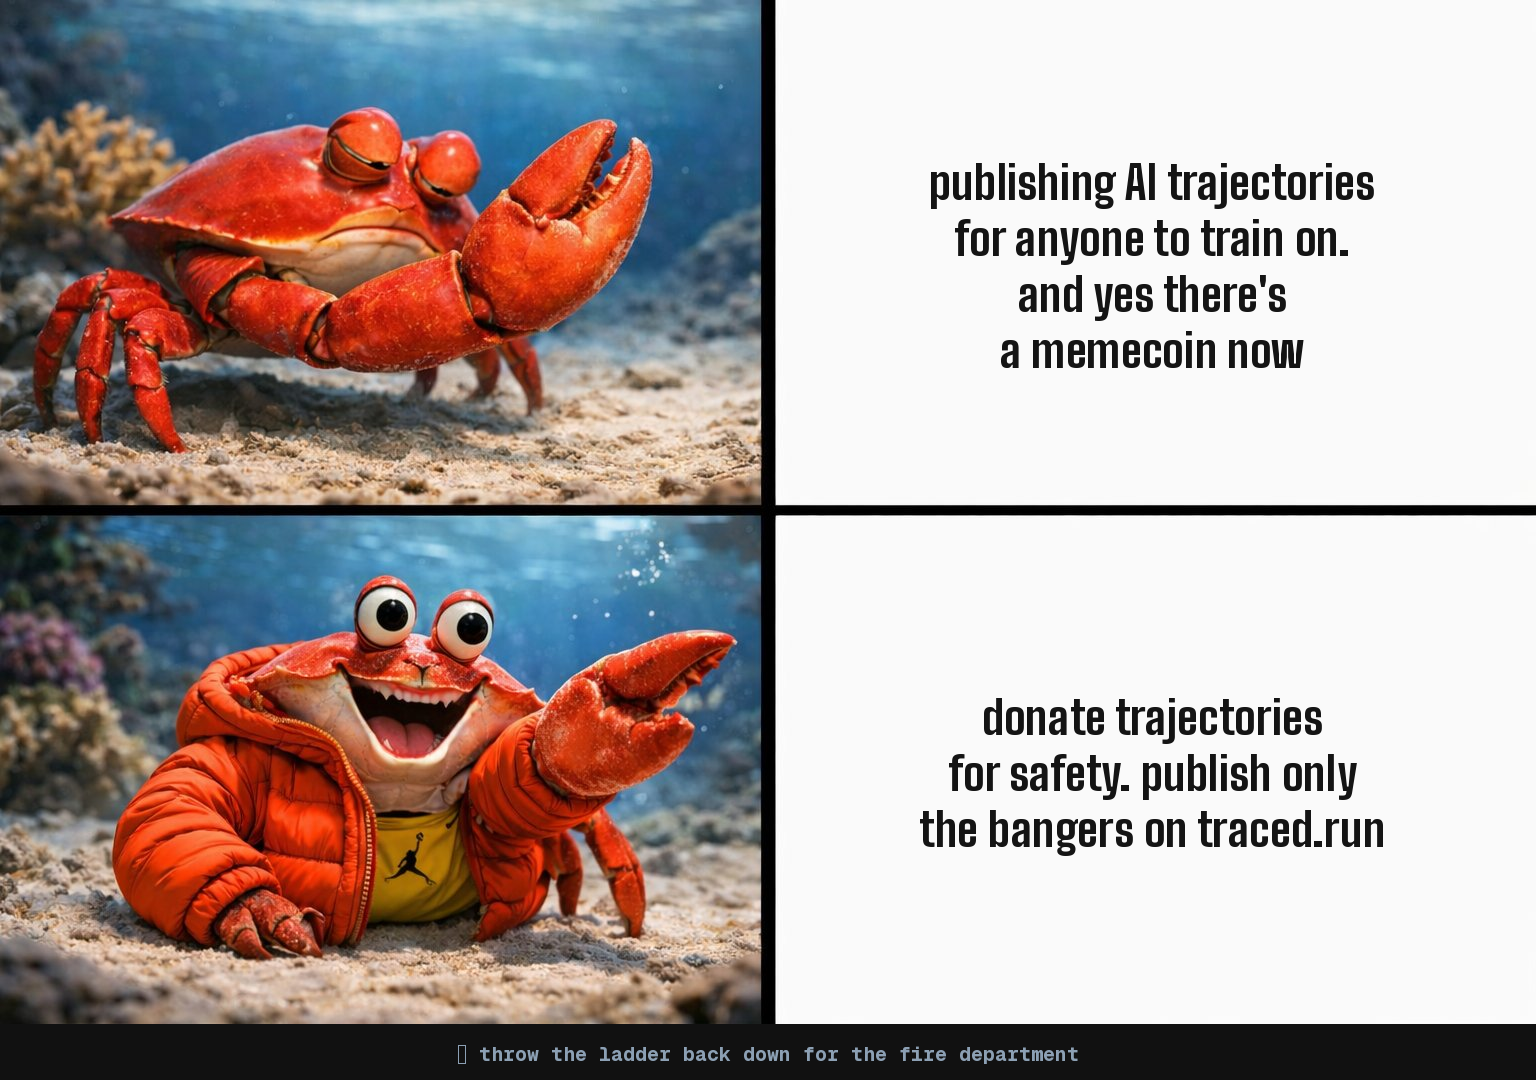
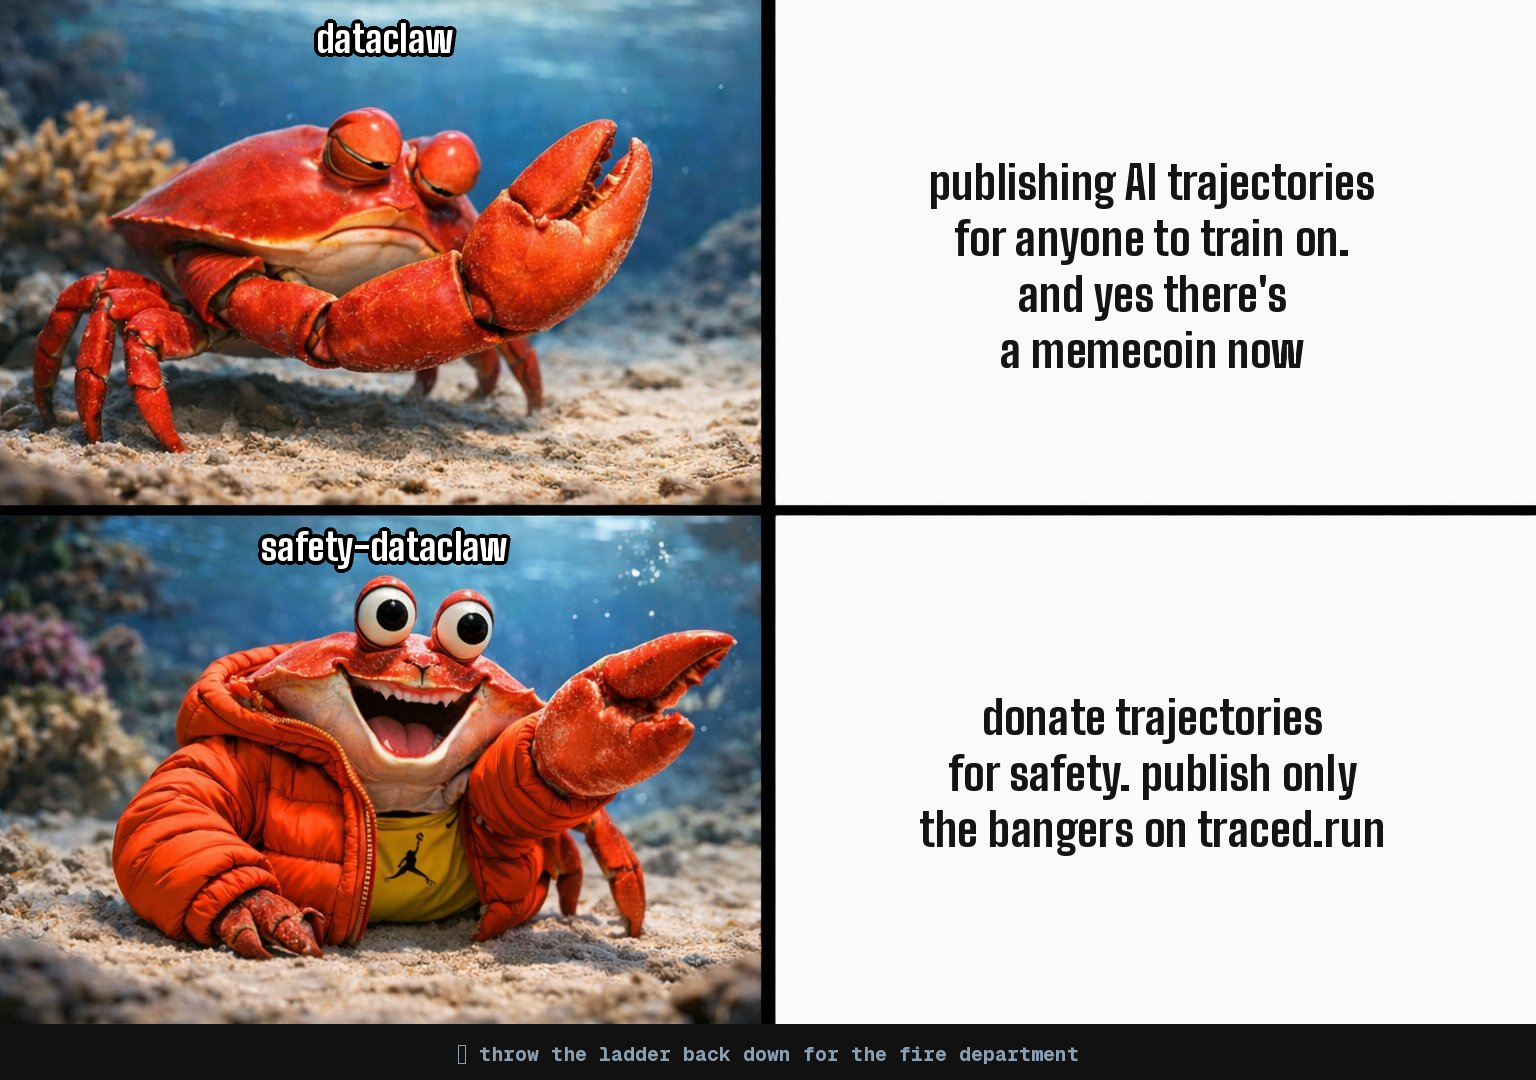
fix: allow HTTP for localhost in TracedClient, update meme

Changed region(s): [[0.1562, 0.4889, 0.3438, 0.55], [0.1875, 0.0, 0.3125, 0.0611]]

diff --git a/safety_dataclaw/traced_api.py b/safety_dataclaw/traced_api.py
@@ -23,7 +23,8 @@ class TracedClient:
     """
 
     def __init__(self, api_key: str, base_url: str = "https://traced.run"):
-        if not base_url.startswith("https://"):
+        is_localhost = base_url.startswith("http://localhost") or base_url.startswith("http://127.0.0.1")
+        if not base_url.startswith("https://") and not is_localhost:
             raise TracedApiError(
                 f"Refusing to connect to non-HTTPS URL: {base_url}. "
                 "API keys must only be sent over HTTPS."